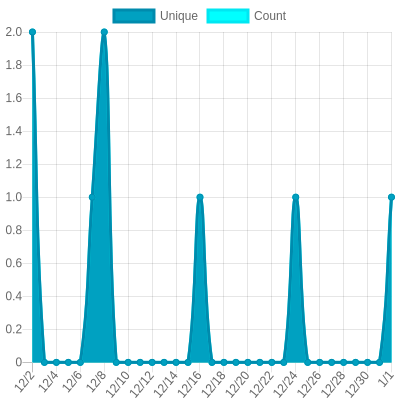
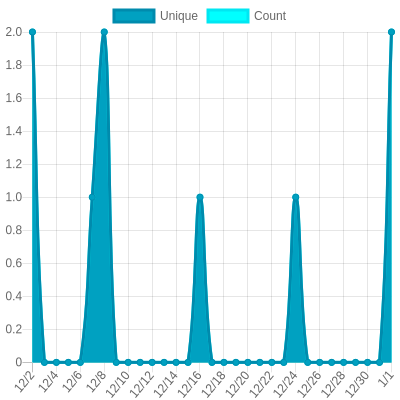
Update views

Changed region(s): [[0.93, 0.06, 0.99, 0.9]]

diff --git a/readme/653294232/month.md b/readme/653294232/month.md
@@ -24,10 +24,10 @@
 			<code>2025/1/1</code>
 		</td>
 		<td>
-			<code>1</code>
+			<code>2</code>
 		</td>
 		<td>
-			<code>1</code>
+			<code>2</code>
 		</td>
 	</tr>
 	<tr>
@@ -363,7 +363,7 @@
 </table>
 
 </details>
-<small><i>Last updated on 2025/1/1 6:27 AM UTC</i></small>
+<small><i>Last updated on 2025/1/1 12:36 PM UTC</i></small>
 
 ## ✂Copy and 📋 Paste
 ### SVG Badge

diff --git a/readme/653294232/week.md b/readme/653294232/week.md
@@ -24,10 +24,10 @@
 			<code>2025/1/1</code>
 		</td>
 		<td>
-			<code>1</code>
+			<code>2</code>
 		</td>
 		<td>
-			<code>1</code>
+			<code>2</code>
 		</td>
 	</tr>
 	<tr>
@@ -110,7 +110,7 @@
 </table>
 
 </details>
-<small><i>Last updated on 2025/1/1 6:27 AM UTC</i></small>
+<small><i>Last updated on 2025/1/1 12:36 PM UTC</i></small>
 
 ## ✂Copy and 📋 Paste
 ### SVG Badge

diff --git a/README.md b/README.md
@@ -181,7 +181,7 @@ The project created and maintained by [gayanvoice](https://github.com/gayanvoice
 	</tr>
 </table>
 
-<small><i>Last updated on 2025/1/1 6:28 AM UTC</i></small>
+<small><i>Last updated on 2025/1/1 12:36 PM UTC</i></small>
 
 ## ✂Copy and 📋 Paste
 ### Total Views Badge

diff --git a/readme/306456465/month.md b/readme/306456465/month.md
@@ -363,7 +363,7 @@
 </table>
 
 </details>
-<small><i>Last updated on 2025/1/1 6:27 AM UTC</i></small>
+<small><i>Last updated on 2025/1/1 12:36 PM UTC</i></small>
 
 ## ✂Copy and 📋 Paste
 ### SVG Badge

diff --git a/readme/306456465/week.md b/readme/306456465/week.md
@@ -110,7 +110,7 @@
 </table>
 
 </details>
-<small><i>Last updated on 2025/1/1 6:27 AM UTC</i></small>
+<small><i>Last updated on 2025/1/1 12:36 PM UTC</i></small>
 
 ## ✂Copy and 📋 Paste
 ### SVG Badge

diff --git a/readme/306456465/year.md b/readme/306456465/year.md
@@ -154,7 +154,7 @@
 </table>
 
 </details>
-<small><i>Last updated on 2025/1/1 6:27 AM UTC</i></small>
+<small><i>Last updated on 2025/1/1 12:36 PM UTC</i></small>
 
 ## ✂Copy and 📋 Paste
 ### SVG Badge

diff --git a/readme/605888225/month.md b/readme/605888225/month.md
@@ -363,7 +363,7 @@
 </table>
 
 </details>
-<small><i>Last updated on 2025/1/1 6:28 AM UTC</i></small>
+<small><i>Last updated on 2025/1/1 12:36 PM UTC</i></small>
 
 ## ✂Copy and 📋 Paste
 ### SVG Badge

diff --git a/readme/605888225/week.md b/readme/605888225/week.md
@@ -110,7 +110,7 @@
 </table>
 
 </details>
-<small><i>Last updated on 2025/1/1 6:28 AM UTC</i></small>
+<small><i>Last updated on 2025/1/1 12:36 PM UTC</i></small>
 
 ## ✂Copy and 📋 Paste
 ### SVG Badge

diff --git a/readme/605888225/year.md b/readme/605888225/year.md
@@ -154,7 +154,7 @@
 </table>
 
 </details>
-<small><i>Last updated on 2025/1/1 6:28 AM UTC</i></small>
+<small><i>Last updated on 2025/1/1 12:36 PM UTC</i></small>
 
 ## ✂Copy and 📋 Paste
 ### SVG Badge

diff --git a/readme/653294232/year.md b/readme/653294232/year.md
@@ -154,7 +154,7 @@
 </table>
 
 </details>
-<small><i>Last updated on 2025/1/1 6:27 AM UTC</i></small>
+<small><i>Last updated on 2025/1/1 12:36 PM UTC</i></small>
 
 ## ✂Copy and 📋 Paste
 ### SVG Badge

diff --git a/readme/662145992/month.md b/readme/662145992/month.md
@@ -363,7 +363,7 @@
 </table>
 
 </details>
-<small><i>Last updated on 2025/1/1 6:28 AM UTC</i></small>
+<small><i>Last updated on 2025/1/1 12:36 PM UTC</i></small>
 
 ## ✂Copy and 📋 Paste
 ### SVG Badge

diff --git a/readme/662145992/week.md b/readme/662145992/week.md
@@ -110,7 +110,7 @@
 </table>
 
 </details>
-<small><i>Last updated on 2025/1/1 6:28 AM UTC</i></small>
+<small><i>Last updated on 2025/1/1 12:36 PM UTC</i></small>
 
 ## ✂Copy and 📋 Paste
 ### SVG Badge
